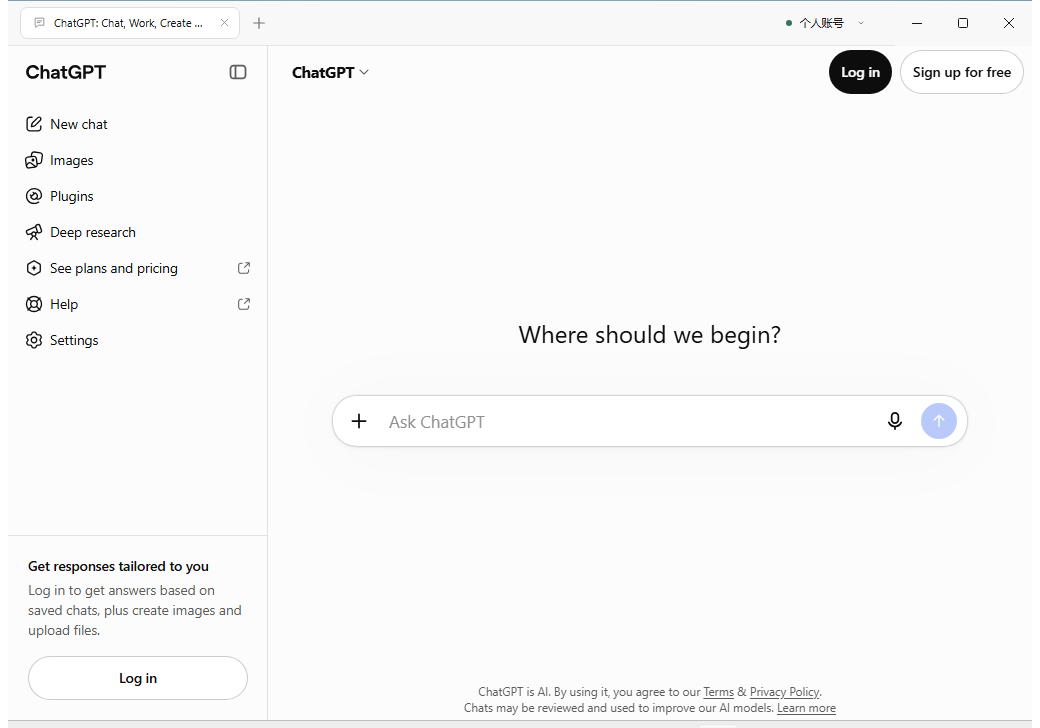
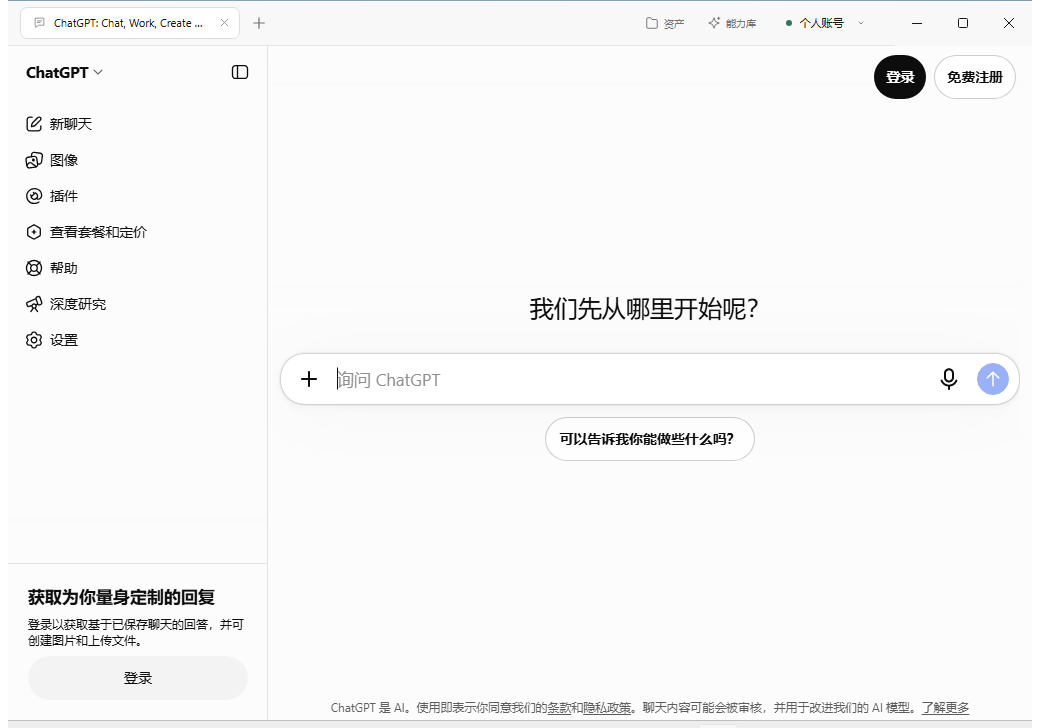
Use the verified alpha.11 Windows native window capture on homepage

diff --git a/site/app.js b/site/app.js
@@ -2,7 +2,7 @@
 const platforms = {
   windows: {
     image: "windows-installed.png",
-    caption: "Windows · 已安装客户端 / 未登录 ChatGPT",
+    caption: "Windows · alpha.11 已安装客户端 / 未登录 ChatGPT",
     alt: "Windows 已安装客户端实际截图：未登录 ChatGPT 页面、账号名称、标签页与原生窗口按钮，没有地址栏。",
     width: 1040,
     height: 728,
